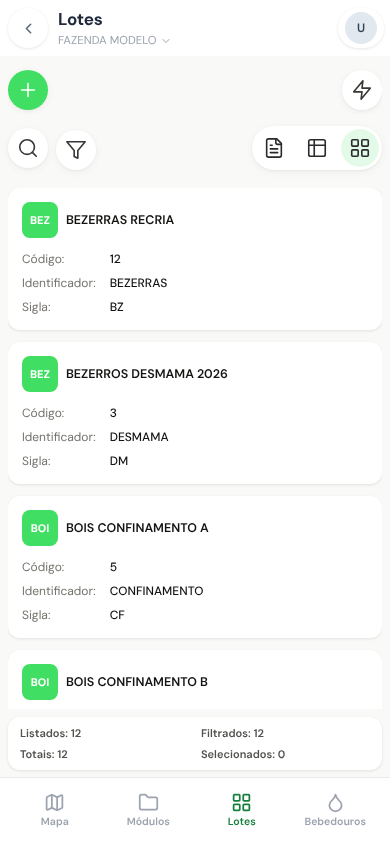
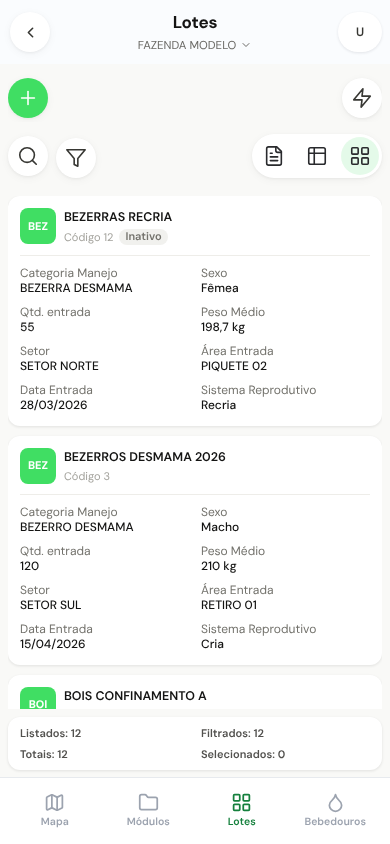
feat(base1): cabeçalho do celular e folhas de lista no modelo novo; docs (D-PROD-161)
Claude-Session: https://claude.ai/code/session_01UazgFgDf1f5UbiFMYmmzCM

diff --git a/src/styles/base1-design.css b/src/styles/base1-design.css
@@ -981,3 +981,135 @@
     padding-bottom: 6px;
   }
 }
+
+/* ── Celular: topo das telas Base1 — botões redondos brancos de 44px, título centralizado.
+   Só vale quando uma tela do motor está na frente; o Mapa Geral fica como está. ── */
+@media (max-width: 639px) {
+  body:has(.cadastro-b1--full-page) :is(header.mk-topnav-header, .mk-mhdr, .mk-mhdr.mk-mhdr--edit):not(#mk-a):not(#mk-b) {
+    background: transparent !important;
+    border-bottom: 0 !important;
+    box-shadow: none !important;
+  }
+  body:has(.cadastro-b1--full-page) .mk-mhdr:not(#mk-a):not(#mk-b) {
+    display: grid;
+    grid-template-columns: 44px minmax(0, 1fr) auto;
+    align-items: center;
+    gap: 10px;
+    min-height: 64px;
+    padding: 6px 8px;
+  }
+  body:has(.cadastro-b1--full-page) .mk-mhdr.mk-mhdr--edit:not(#mk-a):not(#mk-b) {
+    grid-template-columns: auto minmax(0, 1fr) auto;
+  }
+  body:has(.cadastro-b1--full-page) .mk-mhdr__back:not(#mk-a):not(#mk-b) {
+    width: 44px;
+    height: 44px;
+  }
+  body:has(.cadastro-b1--full-page) :is(.mk-mhdr__main, .mk-mhdr__center):not(#mk-a):not(#mk-b) {
+    align-items: center;
+    padding: 0;
+    text-align: center;
+  }
+  body:has(.cadastro-b1--full-page) .mk-mhdr__title:not(#mk-a):not(#mk-b) {
+    color: #141413;
+    font-weight: 700;
+    text-align: center;
+  }
+  body:has(.cadastro-b1--full-page) .mk-mhdr__sub:not(#mk-a):not(#mk-b) {
+    justify-content: center;
+    gap: 4px;
+    margin-top: 1px;
+    color: #6b6a66;
+  }
+  body:has(.cadastro-b1--full-page) .mk-mhdr__sub:not(#mk-a):not(#mk-b) svg {
+    color: #6b6a66;
+  }
+  body:has(.cadastro-b1--full-page) :is(.mk-mhdr__round:not(.mk-mhdr__round--salvar), .mk-mhdr__back > span):not(#mk-a):not(#mk-b) {
+    background: #fff !important;
+    color: #373733 !important;
+    box-shadow: 0 1px 3px rgba(0, 0, 0, 0.05), 0 2px 10px rgba(0, 0, 0, 0.045) !important;
+  }
+  body:has(.cadastro-b1--full-page) :is(.mk-mhdr__round:not(.mk-mhdr__round--salvar), .mk-mhdr__back > span):not(#mk-a):not(#mk-b) svg {
+    color: #373733 !important;
+  }
+  body:has(.cadastro-b1--full-page) .mk-mhdr > [aria-haspopup="menu"]:not(#mk-a):not(#mk-b) {
+    width: 44px;
+    height: 44px;
+    min-width: 44px;
+    padding: 0 !important;
+    border-radius: 999px;
+    background: #fff;
+    box-shadow: 0 1px 3px rgba(0, 0, 0, 0.05), 0 2px 10px rgba(0, 0, 0, 0.045);
+  }
+  body:has(.cadastro-b1--full-page) .mk-mhdr > [aria-haspopup="menu"] > div:not(#mk-a):not(#mk-b) {
+    width: auto;
+    height: auto;
+    background: transparent;
+  }
+  body:has(.cadastro-b1--full-page) .mk-mhdr > [aria-haspopup="menu"] > div > span:not(#mk-a):not(#mk-b) {
+    color: #373733;
+    font-weight: 600;
+  }
+}
+
+/* ── Celular: folha de lista do motor (seleção de campo, selects, "Filtrar por campo") no mesmo modelo:
+   folha branca, pesquisa lisa com linha embaixo, linhas sem risco, escolhido com o visto verde ── */
+.mk-sheet.mk-base1-sheet:not(#mk-a):not(#mk-b):not(#mk-c),
+.mk-sheet.mk-base1-sheet .mk-sheet__body:not(#mk-a):not(#mk-b) {
+  background-color: #fff;
+}
+.mk-base1-sheet :is(.mgs__busca, .fpc__busca).mk-pill:not(#mk-a):not(#mk-b),
+.mk-base1-sheet :is(.mgs__busca, .fpc__busca).mk-pill:focus-within:not(#mk-a):not(#mk-b) {
+  height: 44px;
+  min-height: 44px;
+  margin: 0 12px 6px;
+  padding: 0 4px;
+  border: 0 !important;
+  border-bottom: 1px solid #e8e7e2 !important;
+  border-radius: 0 !important;
+  background: transparent !important;
+  box-shadow: none !important;
+}
+.mk-base1-sheet :is(.mgs__busca, .fpc__busca).mk-pill:not(#mk-a):not(#mk-b) .mk-pill__icon {
+  display: none;
+}
+.mk-base1-sheet :is(.mgs__busca, .fpc__busca).mk-pill:not(#mk-a):not(#mk-b) input {
+  background: transparent;
+  color: #141413;
+}
+.mk-base1-sheet :is(.mgs__lista, .fpc__lista):not(#mk-a):not(#mk-b) {
+  margin: 0 8px 12px;
+  padding: 0;
+  border: 0;
+  border-radius: 0;
+  background: transparent;
+  box-shadow: none;
+}
+.mk-base1-sheet :is(.mgs__op, .fpc__item):not(#mk-a):not(#mk-b) {
+  min-height: 40px;
+  padding: 6px 12px;
+  border: 0 !important;
+  border-radius: 8px;
+  background: transparent;
+  box-shadow: none;
+  color: #141413;
+  font-weight: 400;
+}
+.mk-base1-sheet :is(.mgs__op, .fpc__item):not(#mk-a):not(#mk-b)::before {
+  content: none;
+}
+.mk-base1-sheet :is(.mgs__op, .fpc__item):not(#mk-a):not(#mk-b):active {
+  background: #f1f1ee;
+}
+.mk-base1-sheet .mgs__op.is-on:not(#mk-a):not(#mk-b) {
+  background: transparent;
+  color: #141413;
+}
+.mk-base1-sheet .mgs__op:not(#mk-a):not(#mk-b) svg.lucide-check {
+  flex: 0 0 auto;
+  margin-left: auto;
+  color: #16a34a;
+}
+.mk-base1-sheet :is(.mk-sheet__close, .mk-sheet__new):not(#mk-a):not(#mk-b):not(#mk-c) {
+  box-shadow: 0 1px 3px rgba(0, 0, 0, 0.05), 0 2px 10px rgba(0, 0, 0, 0.045) !important;
+}

diff --git a/src/components/financeiro/AutocompleteGenerico.jsx b/src/components/financeiro/AutocompleteGenerico.jsx
@@ -101,6 +101,7 @@ export default function AutocompleteGenerico({
           style={uppercaseDisplay ? { textTransform: 'uppercase', caretColor: 'transparent' } : { caretColor: 'transparent' }} />
         <ChevronDown className="mk-ac-chev" aria-hidden />
         <MobileSheet
+          className="mk-base1-sheet"
           open={open}
           onClose={() => setOpen(false)}
           label={titulo}

diff --git a/docs/engineering/DECISIONS.md b/docs/engineering/DECISIONS.md
@@ -5823,8 +5823,10 @@ Em cada cadeia: bloqueio antes do clique, exclusão do dependente, desbloqueio s
 - **Lista:** a coluna de título fica em destaque, o código discreto e o vazio apagado (`b1-td--nome/--cod/--vazio`, mesma regra de título/código dos cards); tipo de célula `cor` (amostra + nome). Cards com seleção à direita, "rótulo do código + valor" e tag "Inativo" no subtítulo, campos em duas colunas com o rótulo em cima; no celular o padrão sobe de 3 para até 8 campos (**revoga o item dos 3 campos da D-PROD-88**). Lotes passa a ter campos padrão curados.
   - **Filtros rápidos (`FiltrosRapidos`):** faixa de pílulas acima da lista no desktop e no tablet — Ordenar em palavras simples, uma pílula por campo com lista de marcar e contagem, "+ Filtro" para escolher as pílulas (guardado por tela em `localStorage`) e "Limpar filtros". Quem desenha é a grade, dona de `headerFilters` e da ordenação, num lugar oferecido pelo chrome: não há segundo estado de filtro. A tela pode informar as pílulas iniciais (`quickFilterIds`); sem isso o motor deriva (situação + colunas com 2 a 12 valores).
   - **Menus e listas:** Mais opções, menu da coluna, Filtrar por campo, sugestões da pesquisa e seletor de quantidade na mesma janela branca, sem riscos entre linhas.
-- **Fora desta fatia (existe no design, não foi portado):** condição/operadores dentro do filtro rápido (continuam no filtro avançado da coluna) e a lista "Filtros" do celular; listas de seleção dos campos do formulário no modelo novo; cabeçalho do celular; movimento de abrir/fechar; reorganização dos campos do Lote dentro da aba Geral; rodapé em palavras ("12 lotes · 1 selecionado") — este último contraria o teste PAR6 (`mobileParidadeV2`) e pede decisão própria.
-- **Não muda:** Mapa Geral, lançamentos do mapa (`.mk-lanc`), casca do aplicativo, tamanhos de fonte, dados, rotas e escopo.
+  - **Listas de seleção e pesquisa:** a janela de seleção dos campos (`PainelSelecao`, usada por `AutocompleteGenerico`, `MgSelect` e `B1Select`) fica branca, com a pesquisa lisa (linha embaixo), o "+" de cadastrar dentro da pesquisa, linhas sem risco e o escolhido com o visto verde — vale onde esses seletores aparecem, inclusive nos filtros do mapa. A pesquisa da barra de cima e as listas de "Configurar colunas"/"Campos dos cards" seguem o mesmo modelo. No celular, as folhas de lista do motor (`mk-base1-sheet`) também.
+  - **Cabeçalho do celular nas telas Base1:** botões redondos brancos de 44 px, título centralizado e avatar redondo, só quando uma tela do motor está na frente (`body:has(.cadastro-b1--full-page)`); no Mapa Geral o cabeçalho não muda.
+- **Fora desta fatia (existe no design, não foi portado):** condição/operadores dentro do filtro rápido (continuam no filtro avançado da coluna) e a lista "Filtros" do celular; seleção múltipla em janela (Sistema Produtivo continua em pílulas); movimento de abrir/fechar; reorganização dos campos do Lote dentro da aba Geral; rodapé em palavras ("12 lotes · 1 selecionado") — este último contraria o teste PAR6 (`mobileParidadeV2`) e pede decisão própria.
+- **Não muda:** telas e painéis próprios do Mapa Geral, lançamentos do mapa (`.mk-lanc`), casca do aplicativo fora das telas Base1, tamanhos de fonte, dados, rotas e escopo.
 - **Revoga em parte:** D-PROD-149 (fundo `#FAFCFE`) e as cores de texto da D-PROD-150, só dentro do motor Base1.
 - **Evidência:** `docs/engineering/evidencias/base1-design-d161/`; teste `tests/smoke/base1DesignD161.test.jsx`; relatório `docs/engineering/UI-BASE1-DESIGN-D161-REPORT.md`.
 

diff --git a/docs/engineering/UI-BASE1-DESIGN-D161-REPORT.md b/docs/engineering/UI-BASE1-DESIGN-D161-REPORT.md
@@ -17,6 +17,8 @@
 | Faixa de filtros rápidos e pílula de ordenação | `FiltrosRapidos.jsx` (novo), `CadastroListaChrome.jsx`, `CadastroBase1Grade.jsx` |
 | Lotes: coluna Cor com amostra, campos padrão dos cards, pílulas iniciais | `src/components/lotes/TabelaLotes.jsx`, `src/pages/CadastroLotes.jsx` |
 | Cards no celular: até 8 campos por padrão | `src/hooks/useCadastroCardsPrefs.js` |
+| Lista de seleção dos campos com pesquisa lisa e "+"; folha de lista no celular | `src/components/common/PainelSelecao.jsx`, `src/components/financeiro/AutocompleteGenerico.jsx` |
+| Pesquisa da barra, listas de configuração, cabeçalho do celular nas telas Base1 | `src/styles/base1-design.css` |
 | Testes | `tests/smoke/base1DesignD161.test.jsx`, `tests/smoke/base1FiltrosRapidos.test.jsx` |
 
 Como o porte é no motor, vale para todas as telas Base1. Só três formulários usam abas (Lotes, Bens, Empresa); os demais recebem paleta, campo, tabela e botões.
@@ -31,8 +33,7 @@ Está no design e não entrou:
 
 - condição/operadores dentro do filtro rápido (seguem no filtro avançado do menu da coluna) e a lista "Filtros" do celular (no celular não há faixa; o funil abre o "Filtrar por campo" de antes);
 - setas e esmaecimento na rolagem lateral da faixa;
-- listas de seleção dos campos do formulário no modelo novo e seleção múltipla em janela;
-- cabeçalho do celular e demais mudanças da casca;
+- seleção múltipla em janela (Sistema Produtivo continua em pílulas); no celular o "+" de cadastrar continua no topo da folha, não dentro da pesquisa;
 - movimento de abrir e fechar;
 - campos do Lote reorganizados dentro da aba Geral;
 - rodapé em palavras ("12 lotes · 1 selecionado") — contraria o teste PAR6 de `mobileParidadeV2`.
